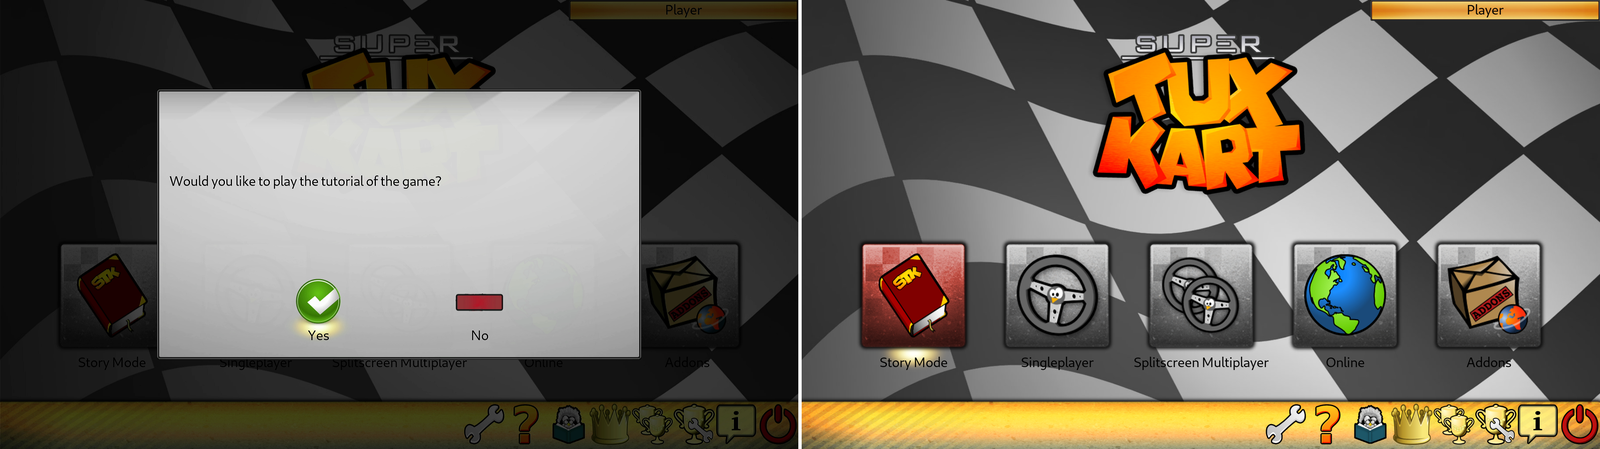
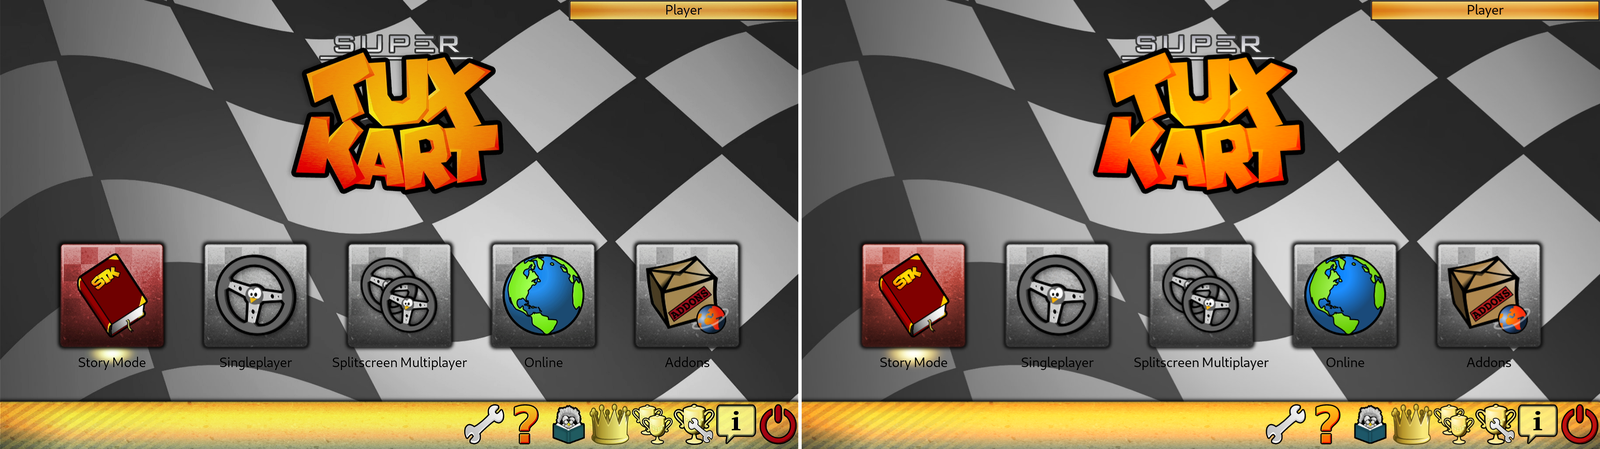
docs: STK parity — clean menu now 0.991 SSIM (modal suppressed)
With the first-run tutorial modal gone (launcher use-frequency=1, f220513),
the main-menu capture is a clean menu. Re-ran scripts/stk-visual-compare.py:
menu SSIM 0.46 -> 0.991, MAE 3.4 — near-identical to the host AMD-GPU
reference. Updated the parity summary table + caveats and refreshed the
downscaled menu side-by-side evidence. All three compared scenes now show
strong parity (menu 0.991, race 0.873, loading 0.913).

diff --git a/docs/inprogress/2026-08-27-stk-visual-parity.md b/docs/inprogress/2026-08-27-stk-visual-parity.md
@@ -6,14 +6,15 @@ harness. Host = reference.
 
 ## Verdict
 
-**The Pi4/V3D render matches the host AMD-GPU reference closely.** For the two genuinely
-render-comparable scenes the structural similarity is strong:
+**The Pi4/V3D render matches the host AMD-GPU reference closely.** Across all three
+compared scenes the structural similarity is strong — the menu is now near-identical
+after the first-run tutorial modal was suppressed (see the launcher `use-frequency=1` fix):
 
 | scene | SSIM | MAE (0-255) | assessment |
 |---|---|---|---|
+| **main menu** | **0.991** | **3.4** | near-identical — clean boot, no modal |
 | **in-game race** (olivermath, behind-Tux) | **0.873** | **8.9** | strong match — the crux 3D scene |
 | **loading screen** | **0.913** | 10.1 | strong match |
-| main menu | 0.46* | — | layout-identical; *SSIM depressed by the Pi's first-run tutorial modal overlay, NOT a render difference |
 
 Side-by-sides (Pi left \| host right), `docs/inprogress/evidence/2026-08-27-stk-parity-*.png`
 (full-res composites in `artifacts/stk-compare/sidebyside/`):
@@ -47,8 +48,8 @@ produces the same textured, lit 3D scene as the reference AMD GPU.
   - Kart santa-hat cosmetic on the Pi (STK seasonal/xmas mode) vs plain on the host.
   - The Pi frame shows the ceiling start-light + bird; the host camera's slightly lower pitch cut them off.
   - Loading screen: the Pi shows the kart-icon row; the host loads too fast for icons to populate.
-  - Main menu: the Pi shows STK's first-run "play tutorial?" modal (a UI state overlay); the menu
-    itself — logo, the 5 buttons, toolbar, background — renders identically (visible around the modal).
+  - Main menu: the animated checkered background is at a slightly different scroll phase between the
+    two frames (STK scrolls it continuously) — a timing artifact, not a render difference.
 - **Graphics preset not pinned:** the host auto-selected a moderate preset (dynamic lights on,
   shadows/bloom/glow off); the Pi's `config.xml` was not on the export (STK defaults). Output
   varies with these — a small residual source of difference beyond the GPU/driver.
@@ -56,5 +57,5 @@ produces the same textured, lit 3D scene as the reference AMD GPU.
 ## Bottom line
 
 STK renders on the Pi4/V3D essentially the same as on a modern AMD GPU for the scenes tested —
-strong quantitative parity on the in-game race + loading, and a layout-identical menu. The
+strong quantitative parity on the main menu (0.991), the in-game race, and loading. The
 differences are cosmetic/state, not rendering defects.
